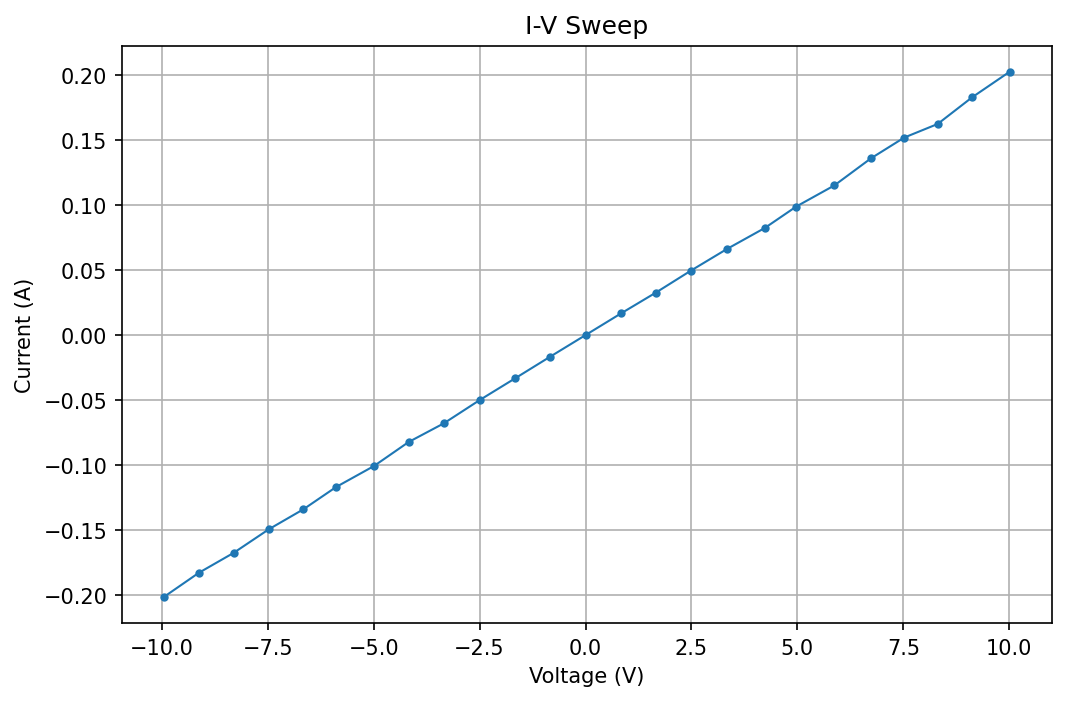
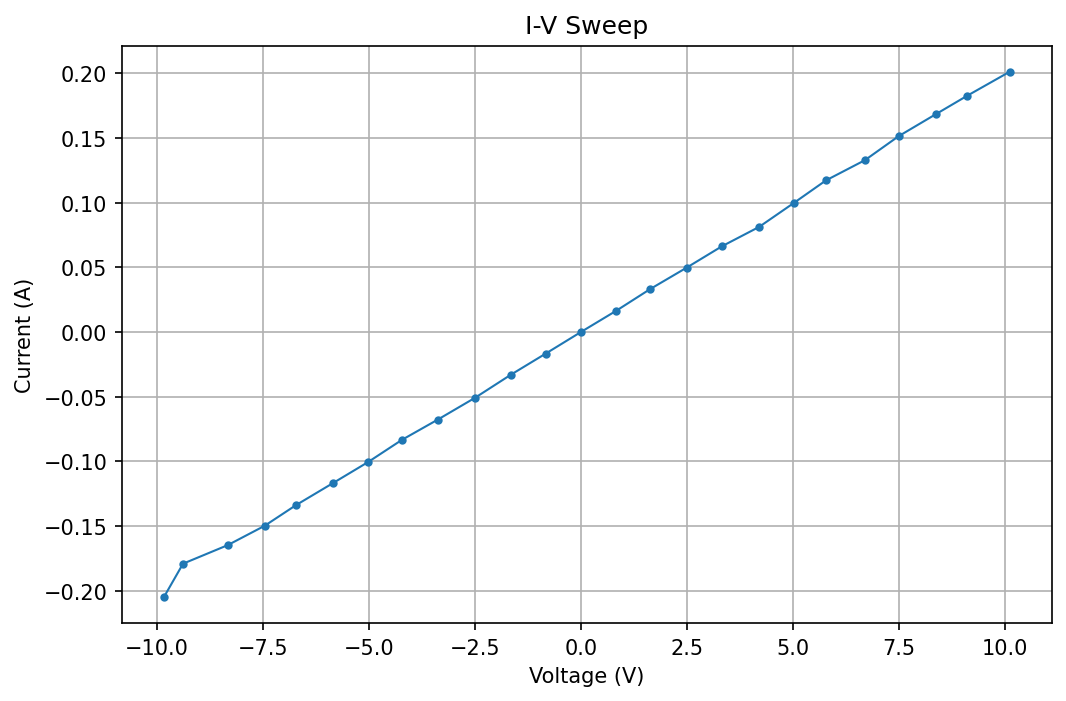
Refactor into modular src layout with CLI entry point

diff --git a/src/instruments/mock_sourcemeter.py b/src/instruments/mock_sourcemeter.py
@@ -1,0 +1,104 @@
+import random
+
+from instruments.base_instrument import BaseInstrument
+
+
+class MockSourcemeter(BaseInstrument):
+    NOISE_FRAC = {"LOW": 0.001, "MEDIUM": 0.009, "HIGH": 0.02}
+
+    def __init__(self, simulated_resistance=50, noise_level="MEDIUM", shots=25):
+        super().__init__()
+        self.output_status = "DISABLED"
+        self.voltage_range = 10  # -10 V to 10 V
+        self.current_limit = 1  # -1 A to 1 A
+        self.simulated_resistance = simulated_resistance
+        self.noise_level = noise_level.upper()
+        self.voltage_noise_floor = 0.0005  # 0.5 mV
+        self.current_noise_floor = 0.0000005  # 0.5 uA
+        self.shots = shots
+        self.voltage_setpoint = 0
+
+    def connect(self):
+        self.connection_status = "ON"
+
+    def disconnect(self):
+        self.connection_status = "OFF"
+
+    def enable_output(self):
+        self.output_status = "ENABLED"
+
+    def disable_output(self):
+        self.output_status = "DISABLED"
+
+    def reset(self):
+        self.disable_output()
+        self.voltage_setpoint = 0
+
+    def set_voltage_range(self, volts: float):
+        self.voltage_range = volts
+
+    def get_voltage_range(self):
+        return self.voltage_range
+
+    def set_voltage(self, volts: float):
+        self.voltage_setpoint = volts
+
+    def get_voltage(self):
+        return self.voltage_setpoint
+
+    def set_current_limit(self, c_limit: float):
+        self.current_limit = c_limit
+
+    def get_current_limit(self):
+        return self.current_limit
+
+    def set_simulated_resistance(self, ohms: float):
+        self.simulated_resistance = ohms
+
+    def get_simulated_resistance(self):
+        return self.simulated_resistance
+
+    def set_noise_level(self, level: str):
+        self.noise_level = level.upper()
+
+    def set_shots(self, shots: int):
+        self.shots = shots
+
+    def get_shots(self):
+        return self.shots
+
+    def get_noise(self, measurement_type, ideal_value):
+        if measurement_type == "VOLTAGE":
+            floor = self.voltage_noise_floor
+        elif measurement_type == "CURRENT":
+            floor = self.current_noise_floor
+        else:
+            raise ValueError(f"Unknown Measurement Type: {measurement_type}")
+
+        frac = self.NOISE_FRAC[self.noise_level]
+        noise_std = floor + (abs(ideal_value) * frac)
+        return random.gauss(0, noise_std)
+
+    def measure_voltage(self):
+        if self.connection_status == "OFF":
+            raise RuntimeError("Cannot measure voltage: instrument is not connected.")
+        if self.output_status == "DISABLED":
+            raise RuntimeError("Cannot measure voltage: instrument output is disabled.")
+
+        ideal_voltage = self.get_voltage()
+        noise = self.get_noise("VOLTAGE", ideal_voltage)
+        return ideal_voltage + noise
+
+    def measure_current(self):
+        if self.connection_status == "OFF":
+            raise RuntimeError("Cannot measure current: instrument is not connected.")
+        if self.output_status == "DISABLED":
+            raise RuntimeError("Cannot measure current: instrument output is disabled.")
+
+        ideal_current = self.get_voltage() / self.get_simulated_resistance()
+
+        if abs(ideal_current) > self.get_current_limit():
+            raise RuntimeError("Current limit exceeded.")
+
+        noise = self.get_noise("CURRENT", ideal_current)
+        return ideal_current + noise

diff --git a/src/experiments/iv_sweep.py b/src/experiments/iv_sweep.py
@@ -1,0 +1,70 @@
+import time
+
+import numpy as np
+
+from analysis.iv_analysis import calculate_resistance
+from instruments.mock_sourcemeter import MockSourcemeter
+from plotting.plot_iv import plot_iv
+from utils.file_manager import make_iv_sweep_paths, save_to_csv
+
+
+def run_iv_sweep(
+    sourcemeter: MockSourcemeter | None = None,
+    settling_time: float = 0.1,
+) -> dict:
+    """Run a full I-V sweep: measure, save CSV, plot, and estimate resistance."""
+    sourcemeter = sourcemeter or MockSourcemeter()
+
+    sourcemeter.connect()
+    print("Connected to sourcemeter.")
+
+    sourcemeter.enable_output()
+    print("Enabled sourcemeter output.")
+
+    try:
+        data = []
+        v_range = sourcemeter.get_voltage_range()
+        shots = sourcemeter.get_shots()
+        voltages = np.linspace(-v_range, v_range, shots)
+
+        print("Commencing measurement process.")
+
+        for ideal_voltage in voltages:
+            sourcemeter.set_voltage(ideal_voltage)
+            time.sleep(settling_time)
+
+            voltage = sourcemeter.measure_voltage()
+            current = sourcemeter.measure_current()
+
+            data.append({
+                "voltage_setpoint": ideal_voltage,
+                "measured_voltage": voltage,
+                "measured_current": current,
+            })
+
+        csv_path, plot_path = make_iv_sweep_paths()
+
+        save_to_csv(data, csv_path)
+        print(f"Data saved to {csv_path}.")
+
+        plot_iv(data, plot_path)
+        print(f"Plot saved to {plot_path}.")
+
+        resistance = calculate_resistance(data)
+        print(f"Estimated resistance: {resistance:.2f} ohms")
+
+        return {
+            "data": data,
+            "csv_path": csv_path,
+            "plot_path": plot_path,
+            "resistance_ohms": resistance,
+        }
+
+    except RuntimeError as e:
+        print(f"Sweep aborted: {e}")
+        raise
+
+    finally:
+        sourcemeter.disable_output()
+        sourcemeter.disconnect()
+        print("Successfully disabled and disconnected the sourcemeter.")

diff --git a/src/utils/file_manager.py b/src/utils/file_manager.py
@@ -1,0 +1,29 @@
+import csv
+from datetime import datetime
+from pathlib import Path
+
+
+def make_timestamp() -> str:
+    return datetime.now().strftime("%Y-%m-%d_%H%M%S")
+
+
+def make_iv_sweep_paths(timestamp: str | None = None) -> tuple[Path, Path]:
+    if timestamp is None:
+        timestamp = make_timestamp()
+    csv_path = Path(f"data/raw/iv_sweep_{timestamp}.csv")
+    plot_path = Path(f"plots/iv/iv_sweep_{timestamp}.png")
+    return csv_path, plot_path
+
+
+def save_to_csv(data: list[dict], filepath: str | Path) -> None:
+    if not data:
+        return
+
+    fieldnames = list(data[0].keys())
+    filepath = Path(filepath)
+    filepath.parent.mkdir(parents=True, exist_ok=True)
+
+    with open(filepath, "w", newline="") as f:
+        writer = csv.DictWriter(f, fieldnames=fieldnames)
+        writer.writeheader()
+        writer.writerows(data)

diff --git a/src/main.py b/src/main.py
@@ -1,0 +1,31 @@
+"""Entry point for lab automation experiments."""
+
+import argparse
+import sys
+from pathlib import Path
+
+# Allow imports from src/ when running as `python src/main.py`
+sys.path.insert(0, str(Path(__file__).resolve().parent))
+
+from experiments.iv_sweep import run_iv_sweep
+
+
+def main():
+    parser = argparse.ArgumentParser(
+        description="Python lab automation toolkit — mock instrument experiments."
+    )
+    parser.add_argument(
+        "--experiment",
+        choices=["iv"],
+        default="iv",
+        help="Experiment to run (default: iv)",
+    )
+    args = parser.parse_args()
+
+    if args.experiment == "iv":
+        print("Starting I-V sweep...")
+        run_iv_sweep()
+
+
+if __name__ == "__main__":
+    main()

diff --git a/src/plotting/plot_iv.py b/src/plotting/plot_iv.py
@@ -1,0 +1,20 @@
+from pathlib import Path
+
+import matplotlib.pyplot as plt
+
+
+def plot_iv(data: list[dict], filepath: str | Path) -> None:
+    voltages = [row["measured_voltage"] for row in data]
+    currents = [row["measured_current"] for row in data]
+
+    plt.figure(figsize=(8, 5))
+    plt.plot(voltages, currents, marker="o", markersize=3, linewidth=1)
+    plt.xlabel("Voltage (V)")
+    plt.ylabel("Current (A)")
+    plt.title("I-V Sweep")
+    plt.grid(True)
+
+    filepath = Path(filepath)
+    filepath.parent.mkdir(parents=True, exist_ok=True)
+    plt.savefig(filepath, dpi=150, bbox_inches="tight")
+    plt.close()

diff --git a/src/analysis/iv_analysis.py b/src/analysis/iv_analysis.py
@@ -1,0 +1,13 @@
+import numpy as np
+
+
+def calculate_resistance(data: list[dict]) -> float:
+    """Estimate resistance (ohms) from I-V data via linear fit: V = R * I."""
+    if not data:
+        raise ValueError("Cannot estimate resistance: no measurement data.")
+
+    voltages = np.array([row["measured_voltage"] for row in data])
+    currents = np.array([row["measured_current"] for row in data])
+
+    resistance, _ = np.polyfit(currents, voltages, 1)
+    return resistance

diff --git a/src/instruments/base_instrument.py b/src/instruments/base_instrument.py
@@ -1,0 +1,19 @@
+"""Base class for mock (and future real) lab instruments."""
+
+from abc import ABC, abstractmethod
+
+
+class BaseInstrument(ABC):
+    def __init__(self):
+        self.connection_status = "OFF"
+
+    @abstractmethod
+    def connect(self) -> None:
+        pass
+
+    @abstractmethod
+    def disconnect(self) -> None:
+        pass
+
+    def is_connected(self) -> bool:
+        return self.connection_status == "ON"

diff --git a/src/instruments/__init__.py b/src/instruments/__init__.py
@@ -1,0 +1,4 @@
+from instruments.base_instrument import BaseInstrument
+from instruments.mock_sourcemeter import MockSourcemeter
+
+__all__ = ["BaseInstrument", "MockSourcemeter"]

diff --git a/src/utils/__init__.py b/src/utils/__init__.py
@@ -1,0 +1,3 @@
+from utils.file_manager import make_iv_sweep_paths, make_timestamp, save_to_csv
+
+__all__ = ["make_iv_sweep_paths", "make_timestamp", "save_to_csv"]

diff --git a/src/analysis/__init__.py b/src/analysis/__init__.py
@@ -1,0 +1,3 @@
+from analysis.iv_analysis import calculate_resistance
+
+__all__ = ["calculate_resistance"]

diff --git a/src/experiments/__init__.py b/src/experiments/__init__.py
@@ -1,0 +1,3 @@
+from experiments.iv_sweep import run_iv_sweep
+
+__all__ = ["run_iv_sweep"]

diff --git a/src/plotting/__init__.py b/src/plotting/__init__.py
@@ -1,0 +1,3 @@
+from plotting.plot_iv import plot_iv
+
+__all__ = ["plot_iv"]
